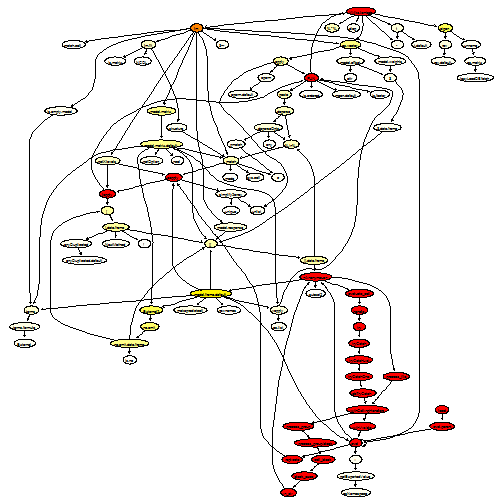
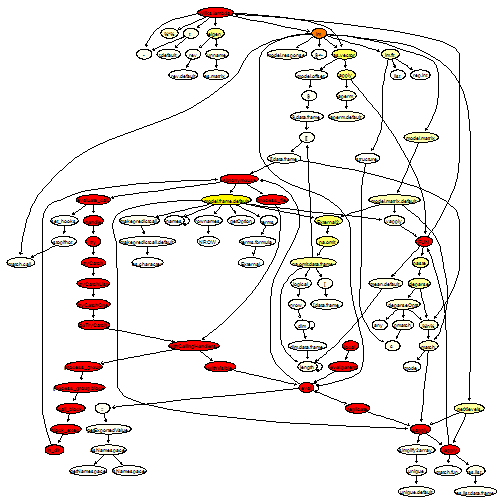
added test case for optimisation tutorial

diff --git a/_posts/2015-09-10-optimisation-test-case.md b/_posts/2015-09-10-optimisation-test-case.md
@@ -3,13 +3,22 @@ layout: post
 title: "Test case: Optimising PCEV"
 tags: [Optimisation, R, microbenchmark, PCEV]
 permalink: optimisation-test-case
-comments: false
+comments: true
 ---
 
 
 
 
 
+I will give an example of code optimisation in R, using Noam Ross's ```proftable``` function and Luke Tierney's ```proftools``` package, which I discuss in my [tutorial on optimisation](http://turgeonmaxime.github.io/optimisation/). The code we will optimise comes from the main function of our [PCEV package](https://github.com/GreenwoodLab/pcev). A few months ago, while testing the method using simulations, I had to speed up my code because it was way to slow, and the result of this optimisation is given below. 
+
+For background, recall that PCEV is a dimension-reduction technique, akin to PCA, but where the components are obtained by maximising the proportion of variance explained by a set of covariates. For more information, see this [blog post](http://turgeonmaxime.github.io/pcev/). 
+
+<!--more-->
+
+### First version
+
+Below, I have reproduced the first version of the code that I was using:
 
 
 {% highlight r %}
@@ -50,6 +59,8 @@ Wilks.lambda <- function(Y, x) {
 }
 {% endhighlight %}
 
+As we can see, we are using a few common R functions, like ```lm```, matrix multiplication and ```eigen```. Let's see where the bottlenecks are. As mentioned in the [documentation](http://www.hep.by/gnu/r-patched/r-exts/R-exts_71.html#SEC71), we will wrap our code in a call to replicate so that we can accurately investigate the call stack.
+
 
 {% highlight r %}
 set.seed(12345)
@@ -68,32 +79,32 @@ proftable(tmp)
 
 {% highlight text %}
 ##  PctTime
-##  11.86  
-##   6.19  
-##   3.61  
-##   3.09  
-##   3.09  
-##   3.09  
-##   3.09  
-##   2.58  
-##   2.06  
-##   2.06  
-##  Call                                                                                   
-##  eigen                                                                                  
-##  %*%                                                                                    
-##  as.vector > apply                                                                      
-##  as.vector > apply                                                                      
-##  lm > model.frame.default > .External2 > na.omit                                        
-##  lm > model.frame.default > .External2 > na.omit > na.omit.data.frame > [ > [.data.frame
-##  lm > lm.fit                                                                            
-##  lm > model.response                                                                    
-##  lm > model.frame.default > .External2 > na.omit > na.omit.data.frame                   
-##  lm > model.frame.default > makepredictcall                                             
+##  9.73   
+##  6.49   
+##  5.95   
+##  4.86   
+##  4.86   
+##  4.86   
+##  3.24   
+##  3.24   
+##  3.24   
+##  2.70   
+##  Call                                                                
+##  eigen                                                               
+##  lm > lm.fit                                                         
+##  lm > model.frame.default > .External2 > na.omit > na.omit.data.frame
+##  %*%                                                                 
+##  as.vector > apply                                                   
+##  lm > model.frame.default                                            
+##  as.vector > apply > aperm > aperm.default                           
+##  lm > model.frame.default > .External2 > na.omit                     
+##  lm > model.response                                                 
+##  as.vector > apply > mean.default                                    
 ## 
 ## Parent Call: local > eval.parent > eval > eval > eval > eval > <Anonymous> > process_file > withCallingHandlers > process_group > process_group.block > call_block > block_exec > in_dir > <Anonymous> > evaluate_call > handle > try > tryCatch > tryCatchList > tryCatchOne > doTryCatch > withCallingHandlers > withVisible > eval > eval > replicate > sapply > lapply > FUN > Wilks.lambda > ...
 ## 
-## Total Time: 3.88 seconds
-## Percent of run time represented: 40.7 %
+## Total Time: 3.7 seconds
+## Percent of run time represented: 49.2 %
 {% endhighlight %}
 
 
@@ -104,6 +115,12 @@ plotProfileCallGraph(readProfileData(tmp),
 {% endhighlight %}
 
 ![plot of chunk Wilks1](figure/source/2015-09-10-optimisation-test-case/Wilks1-1.png) 
+
+Not surprisingly, ```eigen``` is taking up quite some time to run (but note that we are calling it twice). Moreover, ```lm``` is calling several other functions. This is because it tidies up the output. 
+
+### First attempt at optimising
+
+Since we only need the fitted values, we can replace our call to ```lm``` by a call to ```lm.fit```.
 
 
 {% highlight r %}
@@ -182,6 +199,7 @@ plotProfileCallGraph(readProfileData(tmp),
 
 ![plot of chunk Wilks2](figure/source/2015-09-10-optimisation-test-case/Wilks2-1.png) 
 
+What we can notice now is that ```as.vector``` is being called quite often. Looking at the source code, we see that we can probably replace ```apply(Y, 2, mean)``` by the optimised function ```colMeans```. Moreover, some of the matrix multiplications involve matrix transposition; for this purpose, it is better to use the optimised functions ```crossprod``` and ```tcrossprod```:
 
 
 {% highlight r %}
@@ -260,6 +278,12 @@ plotProfileCallGraph(readProfileData(tmp),
 
 ![plot of chunk Wilks3](figure/source/2015-09-10-optimisation-test-case/Wilks3-1.png) 
 
+This is getting much better.
+
+### Second attempt at optimising - Looking at the source code
+
+It seems the next thing we could do is try to improve the function ```eigen```. Looking at the graph of calls, we see that ```eigen``` actually calls quite a lot of helper functions to look at the data type. It is also calling ```ncol``` and ```nrow```, which gives quantities we already know about. Looking at the source code reveals that the main work is being done by an internal function, ```La_rs```. Therefore, by calling it directly, we can avoid all the type checking.
+
 
 {% highlight r %}
 # Compute PCEV and its p-value - Take 4
@@ -336,6 +360,8 @@ plotProfileCallGraph(readProfileData(tmp),
 {% endhighlight %}
 
 ![plot of chunk Wilks4](figure/source/2015-09-10-optimisation-test-case/Wilks4-1.png) 
+
+This looks quite good, there isn't much left to improve, except perhaps the call to ```lm.fit```. We will replace it by an explicit QR decomposition, which calls Fortran routines. 
 
 
 {% highlight r %}
@@ -425,6 +451,12 @@ plotProfileCallGraph(readProfileData(tmp),
 
 ![plot of chunk Wilks5](figure/source/2015-09-10-optimisation-test-case/Wilks5-1.png) 
 
+We have also replaced the call to ```pf``` by a call to a C routine. Finally, note that the ```diag``` function, even though it is used only once, is a very flexible function that behaves quite differently depending on its input. Therefore, we can speed it up by calling the appropriate subroutine; this is what we did above.
+
+### Benchmarking
+
+Let's do a timing comparison between the five different approaches:
+
 
 {% highlight r %}
 compare <- microbenchmark(Wilks.lambda(Y, X), 
@@ -439,18 +471,18 @@ compare
 
 {% highlight text %}
 ## Unit: microseconds
-##                 expr      min        lq      mean   median        uq
-##   Wilks.lambda(Y, X) 3102.923 3337.8380 3712.4113 3467.839 3646.3055
-##  Wilks.lambda2(Y, X) 1246.415 1340.7800 1484.5608 1384.969 1463.0840
-##  Wilks.lambda3(Y, X)  840.446  895.7545  976.2316  928.254  984.1320
-##  Wilks.lambda4(Y, X)  717.857  761.1910  822.2173  782.858  823.6265
-##  Wilks.lambda5(Y, X)  598.120  640.3130  687.2344  655.708  688.4935
+##                 expr      min       lq      mean   median       uq
+##   Wilks.lambda(Y, X) 3033.362 3192.442 3398.8615 3264.285 3403.124
+##  Wilks.lambda2(Y, X) 1227.029 1296.591 1401.6680 1330.232 1398.653
+##  Wilks.lambda3(Y, X)  822.771  870.096 1017.3821  892.333  932.530
+##  Wilks.lambda4(Y, X)  707.024  741.235  807.2358  762.902  796.258
+##  Wilks.lambda5(Y, X)  585.576  627.769  672.1662  643.164  660.269
 ##        max neval
-##  11339.184  1000
-##   8679.291  1000
-##   4851.668  1000
-##   2731.736  1000
-##   3750.649  1000
+##   7191.689  1000
+##   4662.367  1000
+##  73275.631  1000
+##   3974.730  1000
+##   3624.639  1000
 {% endhighlight %}
 
 
@@ -460,3 +492,13 @@ autoplot(compare)
 {% endhighlight %}
 
 ![plot of chunk WilksComp](figure/source/2015-09-10-optimisation-test-case/WilksComp-1.png) 
+
+We see that the final approach provides about a five-fold speed increase over the initial approach. This means we can do five times more permutations for the same amount of computing time!
+
+However, we can also see an instance of the law of [diminishing returns](https://en.wikipedia.org/wiki/Diminishing_returns): the more optimisation we did, the smaller the speed increase. This goes to show that we probably want to set a limit on how much time we spend trying to optimise code.
+
+### Concluding remarks
+
+We can get a pretty good speed increase by using some of the tools provided by R developpers. More importantly, we didn't have to leave R and write in a faster language; we simply write "better" R code. 
+
+However, one thing to keep in mind is that to improve speed up, we had to get rid of some of the type checking. This approach is fine as long as you are certain your code will not brake, or if you do it yourself before hand (especially when writing a package).
